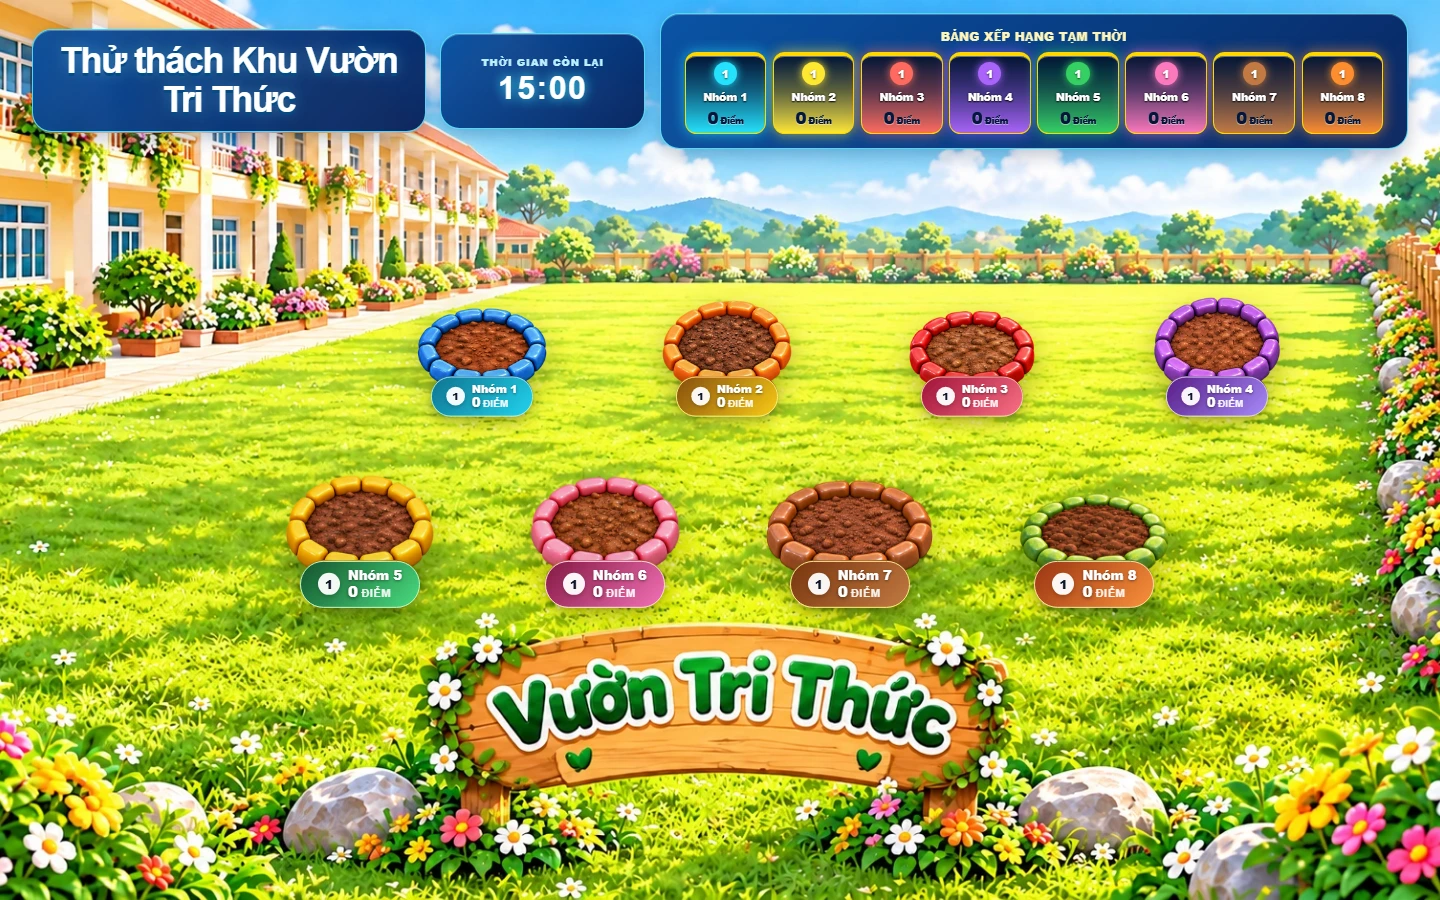
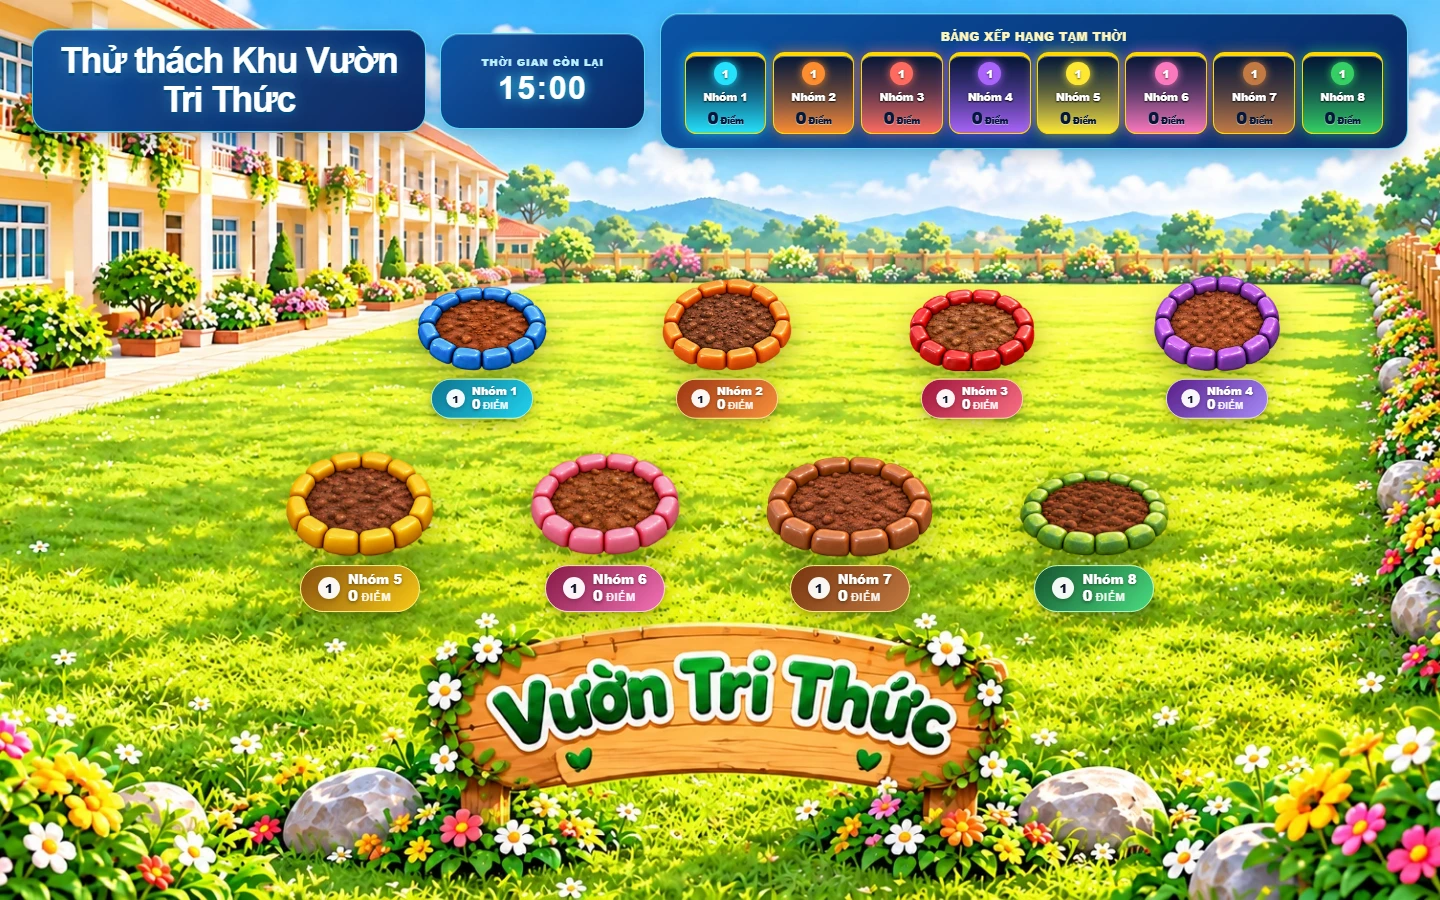
fix(garden): dong bo mau bang nhom va bxh theo gach, bo hover scale va ha thap vi tri bang ten

diff --git a/src/main.js b/src/main.js
@@ -7691,8 +7691,11 @@ const app = {
                     const isSpaceLaunch = presentationTheme === 'space-launch';
                     const isGardenTheme = presentationTheme === 'knowledge-garden';
                     const scoreProgress = app.teamCompetition.getRaceProgress(team.score);
+                    const themeLanes = isGardenTheme
+                        ? (app.teamCompetition.GARDEN_LANES || app.teamCompetition.STADIUM_LANES)
+                        : app.teamCompetition.STADIUM_LANES;
                     const lane = (isBalloonTheme || isTreasureIsland || isSpaceLaunch || isGardenTheme)
-                        ? ((app.teamCompetition.STADIUM_LANES && app.teamCompetition.STADIUM_LANES[index % app.teamCompetition.STADIUM_LANES.length]) || stadiumLanes[index] || { number: index + 1, color: 'cyan', vehicleSprite: index })
+                        ? ((themeLanes && themeLanes[index % themeLanes.length]) || stadiumLanes[index] || { number: index + 1, color: 'cyan', vehicleSprite: index })
                         : stadiumLanes[index];
 
                     if (isGardenTheme) {
@@ -7762,12 +7765,16 @@ const app = {
             const statusClass = ['draft', 'prepared', 'active', 'ended'].includes(match.status) ? match.status : 'draft';
             const totalQuestions = match.teams.reduce((max, team) => Math.max(max, app.teamCompetition.getExamForTeam(match, team)?.questions?.length || 0), 0);
             const rankedTeams = [...match.teams].sort((left, right) => app.teamCompetition.getTeamRank(match, left.id) - app.teamCompetition.getTeamRank(match, right.id));
-            const stadiumLaneByTeamId = new Map(match.teams.map((team, index) => [
-                String(team.id),
-                (presentationTheme === 'balloon-festival' || presentationTheme === 'treasure-island' || presentationTheme === 'space-launch' || presentationTheme === 'knowledge-garden')
-                    ? ((app.teamCompetition.STADIUM_LANES && app.teamCompetition.STADIUM_LANES[index % app.teamCompetition.STADIUM_LANES.length]) || stadiumLanes[index] || null)
-                    : (stadiumLanes[index] || null)
-            ]));
+            const stadiumLaneByTeamId = new Map(match.teams.map((team, index) => {
+                const isGarden = presentationTheme === 'knowledge-garden';
+                const themeLanes = isGarden
+                    ? (app.teamCompetition.GARDEN_LANES || app.teamCompetition.STADIUM_LANES)
+                    : app.teamCompetition.STADIUM_LANES;
+                const lane = (presentationTheme === 'balloon-festival' || presentationTheme === 'treasure-island' || presentationTheme === 'space-launch' || isGarden)
+                    ? ((themeLanes && themeLanes[index % themeLanes.length]) || stadiumLanes[index] || null)
+                    : (stadiumLanes[index] || null);
+                return [String(team.id), lane];
+            }));
             const isSpaceLaunch = presentationTheme === 'space-launch';
             const isBalloonFestival = presentationTheme === 'balloon-festival';
             const isGardenTheme = presentationTheme === 'knowledge-garden';

diff --git a/src/modules/team-competition.js b/src/modules/team-competition.js
@@ -41,6 +41,16 @@
         Object.freeze({ number: 7, color: 'blue', vehicleSprite: 6 }),
         Object.freeze({ number: 8, color: 'orange', vehicleSprite: 7 })
     ]);
+    const GARDEN_LANES = Object.freeze([
+        Object.freeze({ number: 1, color: 'cyan', vehicleSprite: 0 }),
+        Object.freeze({ number: 2, color: 'orange', vehicleSprite: 1 }),
+        Object.freeze({ number: 3, color: 'coral', vehicleSprite: 2 }),
+        Object.freeze({ number: 4, color: 'violet', vehicleSprite: 3 }),
+        Object.freeze({ number: 5, color: 'yellow', vehicleSprite: 4 }),
+        Object.freeze({ number: 6, color: 'pink', vehicleSprite: 5 }),
+        Object.freeze({ number: 7, color: 'blue', vehicleSprite: 6 }),
+        Object.freeze({ number: 8, color: 'green', vehicleSprite: 7 })
+    ]);
     const TEAM_VEHICLE_ASSETS = Object.freeze(Array.from({ length: 8 }, (_, index) =>
         `./src/assets/team-competition/stadium-3d-v1/vehicles/vehicle-${index + 1}.png`
     ));
@@ -1424,6 +1434,7 @@
         PRESENTATION_THEMES,
         PRESENTATION_THEME_OPTIONS,
         STADIUM_LANES,
+        GARDEN_LANES,
         TEAM_VEHICLE_ASSETS,
         TEAM_BALLOON_ASSETS,
         resolvePresentationTeamAvatar,

diff --git a/src/style.css b/src/style.css
@@ -7864,12 +7864,6 @@ input[type="text"], input[type="password"], select, textarea {
     flex-direction: column !important;
     align-items: center !important;
     pointer-events: auto !important;
-    transition: transform 0.4s cubic-bezier(0.34, 1.3, 0.64, 1);
-}
-
-#treasure-modal.team-board-fullscreen .team-race-stadium--knowledge-garden .team-stadium-lane--garden:hover {
-    transform: translate(-50%, -90%) scale(calc(var(--garden-scale) * 1.06)) !important;
-    z-index: 35 !important;
 }
 
 #treasure-modal.team-board-fullscreen .team-race-stadium--knowledge-garden .team-stadium-lane__vehicle {
@@ -7951,7 +7945,7 @@ input[type="text"], input[type="password"], select, textarea {
 
 .team-garden-pot__badge {
     position: relative;
-    margin-top: -24px;
+    margin-top: 4px;
     z-index: 5;
     display: flex;
     align-items: center;
